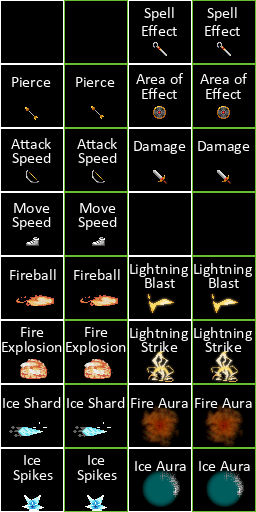
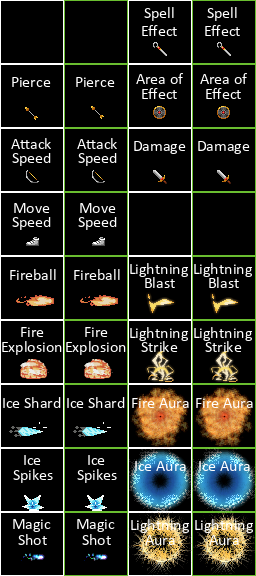
Moar spells (#56)
* feat: add images for new spells and selection

* feat: make new spells usable

* fix: spell effect chance for auras no longer 100%

* fix: spell effect chance now maxes at 100%

* fix: lightning aura is op

diff --git a/RogueliteSurvivor/RogueliteSurvivor/Helpers/LevelUpChoiceHelper.cs b/RogueliteSurvivor/RogueliteSurvivor/Helpers/LevelUpChoiceHelper.cs
@@ -50,6 +50,10 @@ namespace RogueliteSurvivor.Helpers
                     return new Rectangle(128 + xOffset, 256, 64, 64);
                 case LevelUpType.LightningStrike:
                     return new Rectangle(128 + xOffset, 320, 64, 64);
+                case LevelUpType.LightningAura:
+                    return new Rectangle(128 + xOffset, 512, 64, 64);
+                case LevelUpType.MagicShot:
+                    return new Rectangle(xOffset, 512, 64, 64);
                 default:
                     return new Rectangle();
             }
@@ -132,6 +136,10 @@ namespace RogueliteSurvivor.Helpers
                     return LevelUpType.LightningBlast;
                 case "LightningStrike":
                     return LevelUpType.LightningStrike;
+                case "LightningAura":
+                    return LevelUpType.LightningAura;
+                case "MagicShot":
+                    return LevelUpType.MagicShot;
                 default:
                     return LevelUpType.None;
             }
@@ -179,6 +187,8 @@ namespace RogueliteSurvivor.Helpers
                 case LevelUpType.IceAura:
                 case LevelUpType.LightningBlast:
                 case LevelUpType.LightningStrike:
+                case LevelUpType.LightningAura:
+                case LevelUpType.MagicShot:
                     var spells = player.GetAllComponents().Where(a => a is ISpell).ToList();
                     ISpell spell = null;
                     if (spells.Count == 1)
@@ -273,17 +283,17 @@ namespace RogueliteSurvivor.Helpers
 
             if (player.TryGet(out Spell1 spell1))
             {
-                spell1.CurrentEffectChance = spellEffectChance.CurrentSpellEffectChance * spell1.BaseEffectChance;
+                spell1.CurrentEffectChance = MathF.Min(1f, spellEffectChance.CurrentSpellEffectChance * spell1.BaseEffectChance);
                 player.Set(spell1);
             }
             if (player.TryGet(out Spell2 spell2))
             {
-                spell2.CurrentEffectChance = spellEffectChance.CurrentSpellEffectChance * spell2.BaseEffectChance;
+                spell2.CurrentEffectChance = MathF.Min(1f, spellEffectChance.CurrentSpellEffectChance * spell2.BaseEffectChance);
                 player.Set(spell2);
             }
             if (player.TryGet(out Spell3 spell3))
             {
-                spell3.CurrentEffectChance = spellEffectChance.CurrentSpellEffectChance * spell3.BaseEffectChance;
+                spell3.CurrentEffectChance = MathF.Min(1f, spellEffectChance.CurrentSpellEffectChance * spell3.BaseEffectChance);
                 player.Set(spell3);
             }
 

diff --git a/RogueliteSurvivor/RogueliteSurvivor/Systems/AttackSystem.cs b/RogueliteSurvivor/RogueliteSurvivor/Systems/AttackSystem.cs
@@ -115,7 +115,7 @@ namespace RogueliteSurvivor.Systems
                             if (touchedEntity.Has<Enemy>()
                                 && Vector2.Distance(touchedEntity.Get<Position>().XY, entity.Get<Position>().XY) <= aura.BaseRadius * aura.RadiusMultiplier)
                             {
-                                setEnemyHealthAndState(touchedEntity, touchedEntity.Get<EntityStatus>(), spell.Child.Get<Damage>(), spell.Child.Get<Owner>());
+                                setEnemyHealthAndState(touchedEntity, touchedEntity.Get<EntityStatus>(), spell.Child.Get<Damage>(), spell.Child.Get<Owner>(), spell.CurrentEffectChance);
                             }
                         }
                     }
@@ -125,7 +125,7 @@ namespace RogueliteSurvivor.Systems
             return spell.Cooldown;
         }
 
-        private void setEnemyHealthAndState(Entity entity, EntityStatus entityStatus, Damage damage, Owner owner)
+        private void setEnemyHealthAndState(Entity entity, EntityStatus entityStatus, Damage damage, Owner owner, float spellEffectChance)
         {
             if (entityStatus.State == State.Alive)
             {
@@ -162,9 +162,16 @@ namespace RogueliteSurvivor.Systems
                     anim.Overlay = Color.Red;
 
                     entity.Set(health, anim);
-                    if (damage.SpellEffect != SpellEffects.None)
+                    if (damage.SpellEffect != SpellEffects.None && spellEffectChance > 0)
                     {
-                        switch (damage.SpellEffect)
+                        SpellEffects effect = SpellEffects.None;
+                        
+                        if (random.Next(1000) < (spellEffectChance * 1000))
+                        {
+                            effect = damage.SpellEffect;
+                        }
+                        
+                        switch (effect)
                         {
                             case SpellEffects.Burn:
                                 if (!entity.Has<Burn>())

diff --git a/RogueliteSurvivor/RogueliteSurvivor/Constants/Spells.cs b/RogueliteSurvivor/RogueliteSurvivor/Constants/Spells.cs
@@ -17,6 +17,8 @@ namespace RogueliteSurvivor.Constants
         IceAura,
         LightningBlast,
         LightningStrike,
+        LightningAura,
+        MagicShot,
         EnemyMelee,
     }
 
@@ -34,6 +36,8 @@ namespace RogueliteSurvivor.Constants
                 Spells.IceAura,
                 Spells.LightningBlast,
                 Spells.LightningStrike,
+                Spells.LightningAura, 
+                Spells.MagicShot,
             };
         }
 
@@ -59,6 +63,10 @@ namespace RogueliteSurvivor.Constants
                     return Spells.LightningBlast;
                 case "LightningStrike":
                     return Spells.LightningStrike;
+                case "LightningAura":
+                    return Spells.LightningAura;
+                case "MagicShot":
+                    return Spells.MagicShot;
                 case "EnemyMelee":
                     return Spells.EnemyMelee;
                 default:
@@ -86,6 +94,10 @@ namespace RogueliteSurvivor.Constants
                     return "Lightning Blast";
                 case Spells.LightningStrike:
                     return "Lightning Strike";
+                case Spells.LightningAura:
+                    return "Lightning Aura";
+                case Spells.MagicShot:
+                    return "Magic Shot";
                 default:
                     return "None";
             }

diff --git a/RogueliteSurvivor/RogueliteSurvivor/Scenes/GameScene.cs b/RogueliteSurvivor/RogueliteSurvivor/Scenes/GameScene.cs
@@ -120,6 +120,8 @@ namespace RogueliteSurvivor.Scenes
                 { "LightningStrike", Content.Load<Texture2D>(Path.Combine("Spells", "lightning-strike")) },
                 { "FireAura", Content.Load<Texture2D>(Path.Combine("Spells", "fire-aura")) },
                 { "IceAura", Content.Load<Texture2D>(Path.Combine("Spells", "ice-aura")) },
+                { "LightningAura", Content.Load<Texture2D>(Path.Combine("Spells", "lightning-aura")) },
+                { "MagicShot", Content.Load<Texture2D>(Path.Combine("Spells", "magic-shot")) },
 
                 { "StatBar", Content.Load<Texture2D>(Path.Combine("Hud", "StatBar")) },
                 { "HealthBar", Content.Load<Texture2D>(Path.Combine("Hud", "HealthBar")) },
@@ -148,6 +150,7 @@ namespace RogueliteSurvivor.Scenes
                 { "IceShardHit", Content.Load<Texture2D>(Path.Combine("Effects", "ice-shard-hit")) },
                 { "LightningBlastHit", Content.Load<Texture2D>(Path.Combine("Effects", "lightning-blast-hit")) },
                 { "FireballHit", Content.Load<Texture2D>(Path.Combine("Effects", "fireball-hit")) },
+                { "MagicShotHit", Content.Load<Texture2D>(Path.Combine("Effects", "magic-shot-hit")) },
             };
 
             fonts = new Dictionary<string, SpriteFont>()

diff --git a/RogueliteSurvivor/RogueliteSurvivor/Constants/LevelUpType.cs b/RogueliteSurvivor/RogueliteSurvivor/Constants/LevelUpType.cs
@@ -17,6 +17,8 @@ namespace RogueliteSurvivor.Constants
         IceAura,
         LightningBlast,
         LightningStrike,
+        LightningAura,
+        MagicShot,
         SpellEffectChance,
         Pierce,
         AreaOfEffect,
